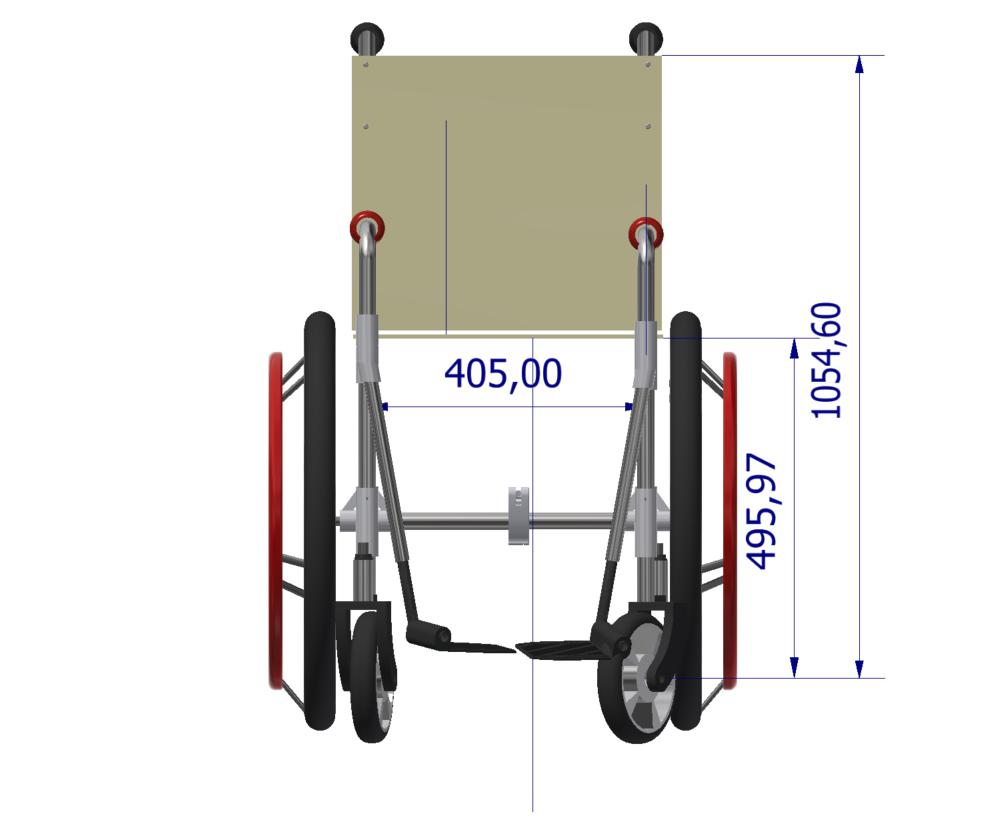
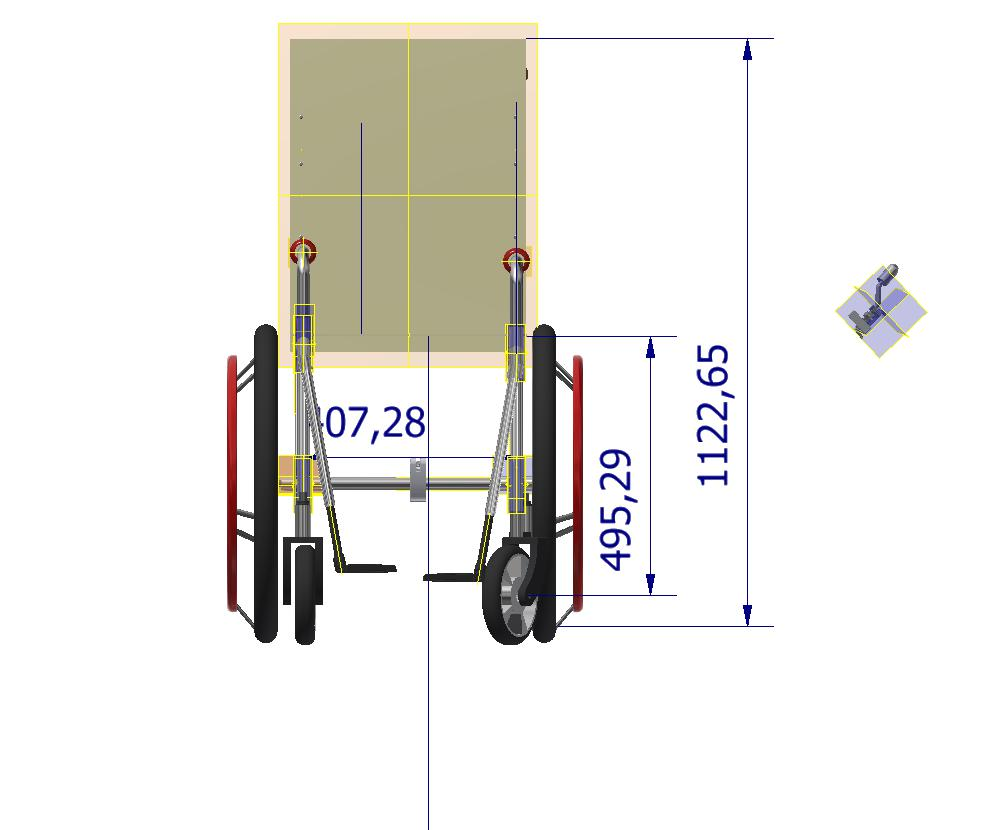
Code to compare input measurements with standard wheelchair upholstery sizing and round up/down as necessary, Tried to save as STL's but got a lot of errors

diff --git a/FreedAM/FreedAM_app/views.py b/FreedAM/FreedAM_app/views.py
@@ -68,7 +68,6 @@ def calculator_home(request):
 	template = loader.get_template('FreedAM_app/templates/FreedAM_app/calculator_home.html')
 	# load input form 
 	frame_input_form = FrameDimensionsForm(request.POST or None)
-
 	#initialize pythoncom to allow connection to Inventor
 	pythoncom.CoInitialize()	
 	# Open Inventor
@@ -83,12 +82,12 @@ def calculator_home(request):
 	# Set location of assembly
 	Assembly_name = 'C:/Users/asidawi/Desktop/CAD_testing/Frame_assembly - Working_on_constraints.iam'
 
-	# Open the model
-	oDoc = invApp.Documents.Open(Assembly_name)
-
 	# if the form is valid i.e. has no clear input errors
 	if frame_input_form.is_valid():
-		
+
+		# Open the model
+		oDoc = invApp.Documents.Open(Assembly_name)		
+
 		# get latest object created id - THIS IS NOT ROBUST!!!!!!!!!!!!!!!!!!!!!!!!
 		object_created_id = FrameDimensions.objects.order_by('-pub_date')[0].id
 		
@@ -122,8 +121,20 @@ def calculator_home(request):
 		ws['B2'] = frame_input_form.cleaned_data['angle_lower_leg_upper_leg']
 		ws['B3'] = frame_input_form.cleaned_data['seating_angle']
 		ws['B4'] = frame_input_form.cleaned_data['backrest_angle']
-		ws['B5'] = frame_input_form.cleaned_data['shoulder_height'] - frame_input_form.cleaned_data['seat_height']
-		ws['B6'] = frame_input_form.cleaned_data['seat_depth']
+
+		# use standard upholstery sizes and compare backrest width and length to that (6 standard sizes)
+		# 400x400, 400x450, 400x500, 450x550, 450x600
+		backrest_tube_length = frame_input_form.cleaned_data['shoulder_height'] - frame_input_form.cleaned_data['seat_height']
+		if backrest_tube_length < 400:
+			ws['B5'] = 425
+		elif 400 <  backrest_tube_length < 450:
+			ws['B5'] = 475
+		elif 450 <  backrest_tube_length < 500:
+			ws['B5'] = 525		
+		elif 500 <  backrest_tube_length < 550:
+			ws['B5'] = 575					
+		else:
+			ws['B5'] = 625	
 
 		# calculate whether vertical tubes need to be extended 
 		seat_height = frame_input_form.cleaned_data['seat_height']
@@ -147,34 +158,60 @@ def calculator_home(request):
 		# setting remainder spredsheet values from form inputs
 		ws['B7'] = vertical_tube_length_front
 		ws['B8'] = vertical_tube_length_rear
-		ws['B9'] = frame_input_form.cleaned_data['seat_depth']		
+
+		# use standard upholstery sizes and compare seat width and length to that (6 standard sizes)
+		# 400x400, 400x450, 400x500, 450x550, 450x600
+
+		if frame_input_form.cleaned_data['seat_depth'] < 400:
+			ws['B9'] = 400
+			ws['B6'] = 400			
+		elif 400 <  frame_input_form.cleaned_data['seat_depth'] < 450:
+			ws['B9'] = 450
+			ws['B6'] = 450						
+		elif 450 <  frame_input_form.cleaned_data['seat_depth'] < 500:
+			ws['B9'] = 500	
+			ws['B6'] = 500							
+		elif 500 <  frame_input_form.cleaned_data['seat_depth'] < 550:
+			ws['B9'] = 550
+			ws['B6'] = 550											
+		else:
+			ws['B9'] = 600	
+			ws['B6'] = 600			
+
+
 		ws['B10'] = frame_input_form.cleaned_data['seat_width']/2 - 25
 		ws['B11'] = frame_input_form.cleaned_data['seat_width']/2 - 25
-		ws['B14'] = frame_input_form.cleaned_data['seat_width']
+
+		if frame_input_form.cleaned_data['seat_width'] < 400:
+			ws['B14'] = 400
+		elif 400 <  frame_input_form.cleaned_data['seat_width'] < 450:
+			ws['B14'] = 450
+		else:
+			ws['B14'] = 450		
 
 		# save parameters spreadsheet
 		wb.save('Parameters.xlsx')	
 
+		# iLogic GUID
+		iLogicAddinGuid = "{3BDD8D79-2179-4B11-8A5A-257B1C0263AC}"
+		# load iLogic add-in
+		iLogic_addin = invApp.ApplicationAddIns.ItemById(iLogicAddinGuid)
 
-		# # iLogic GUID
-		# iLogicAddinGuid = "{3BDD8D79-2179-4B11-8A5A-257B1C0263AC}"
-		# # load iLogic add-in
-		# iLogic_addin = invApp.ApplicationAddIns.ItemById(iLogicAddinGuid)
-		# # Activate the add-in
-		# iLogic_addin.Activate()
+		iLogicAutomation = iLogic_addin.Automation()
 
-		# _iLogicAutomation = iLogic_addin.Automation()
-
-		# Access the iLogic rules within the model
-		#rules = iLogic_addin.Rules(invApp)
+		#rules = iLogicAutomation.get_Rules(oDoc)
 
 		# Update assembly
 		oDoc.Update()
 		# Save assembly
 		oDoc.Save()
 
-		# Save as STL (needs testing)
-		# oDoc.SaveAs("joint_name.stl", True)
+		#backrest_joint = 'C:/Users/asidawi/Desktop/CAD_testing/Backrest_joint.ipt'
+
+		#oDoc_bj = invApp.Documents.Open(backrest_joint)		
+
+		# Save joints as STL (needs testing)
+		#oDoc_bj.SaveAs("backrest_joint_"+str(object_created_id)+".stl", True)
 
 		os.chdir("C:/Users/asidawi/Documents/FreedAM/FreedAM/FreedAM_app/static/images")	
 
@@ -210,8 +247,6 @@ def calculator_home(request):
 		new_accessories_object = Accessories(pub_date = datetime.datetime.now(), linked_frame = FrameDimensions.objects.get(id =object_created_id))
 		new_accessories_object.save()
 
-# use standard upholstery sizes and compared seat width and length to that (6 standard sizes)
-# 400x400, 400x450, 400x500, 450x550, 450x600
 
 		return redirect("FreedAM_app:frame_preview", object_created_id)
 	else:
@@ -225,10 +260,6 @@ def calculator_home(request):
 	}
 	return HttpResponse(template.render(context, request))	
 
-
-
-
- # WHAT HAPPENS NEXT? Cushioning and accessory options with preview of chair?
 
 def frame_preview(request, id=None):
 	template = loader.get_template('FreedAM_app/templates/FreedAM_app/frame_preview.html')
